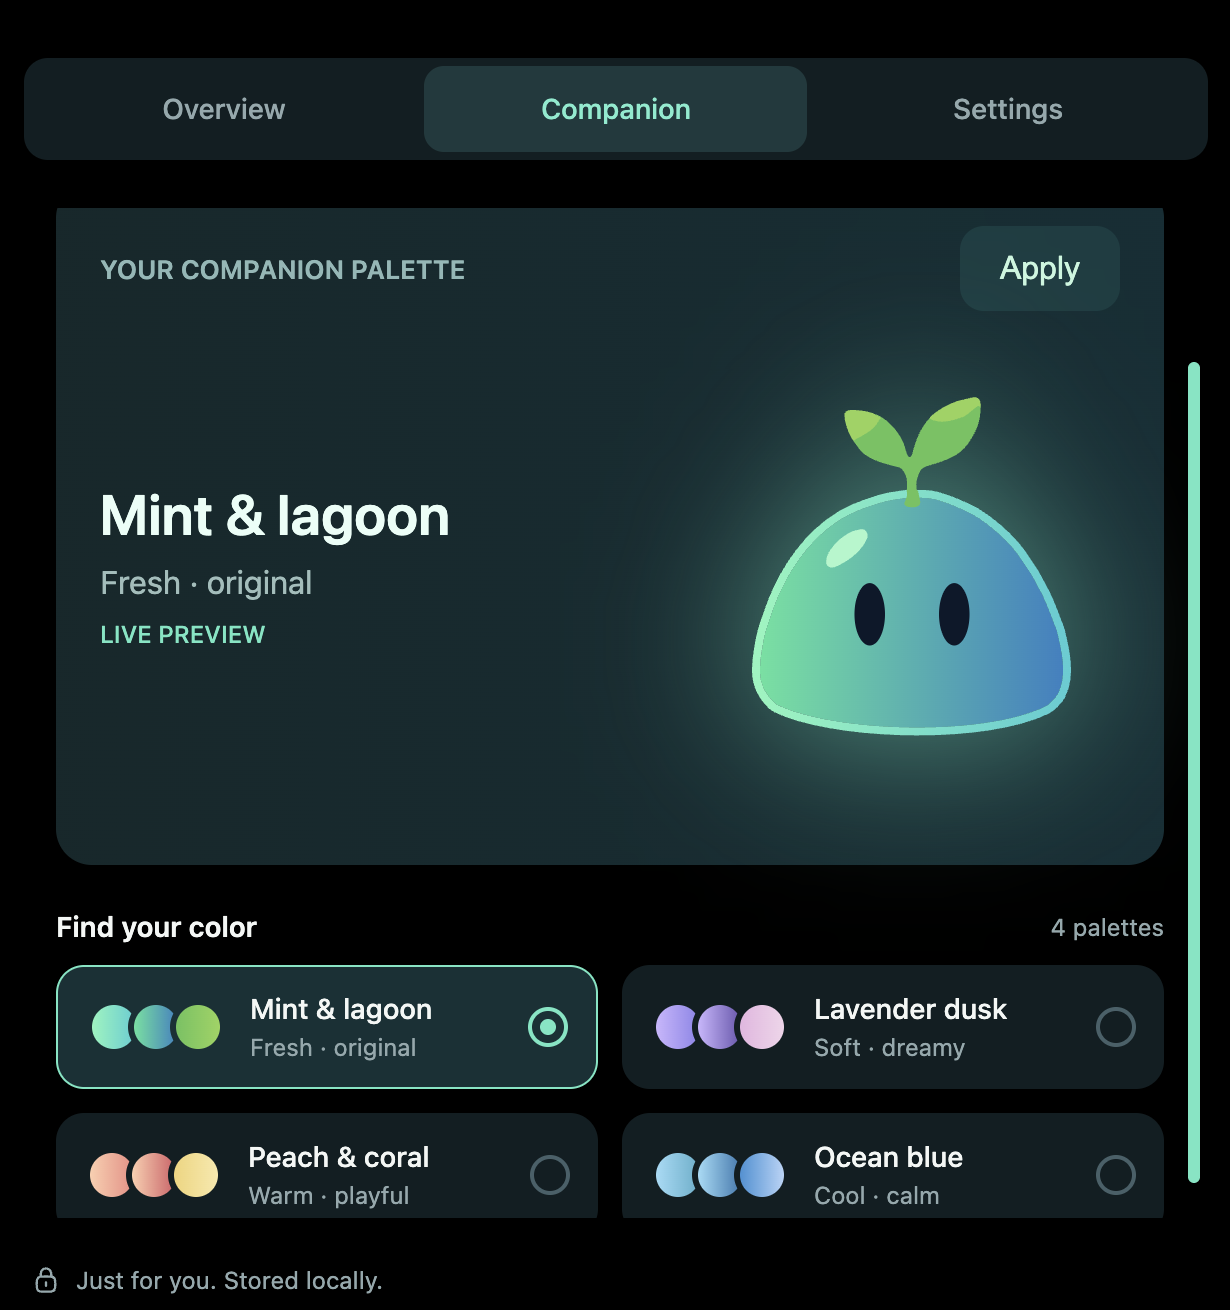
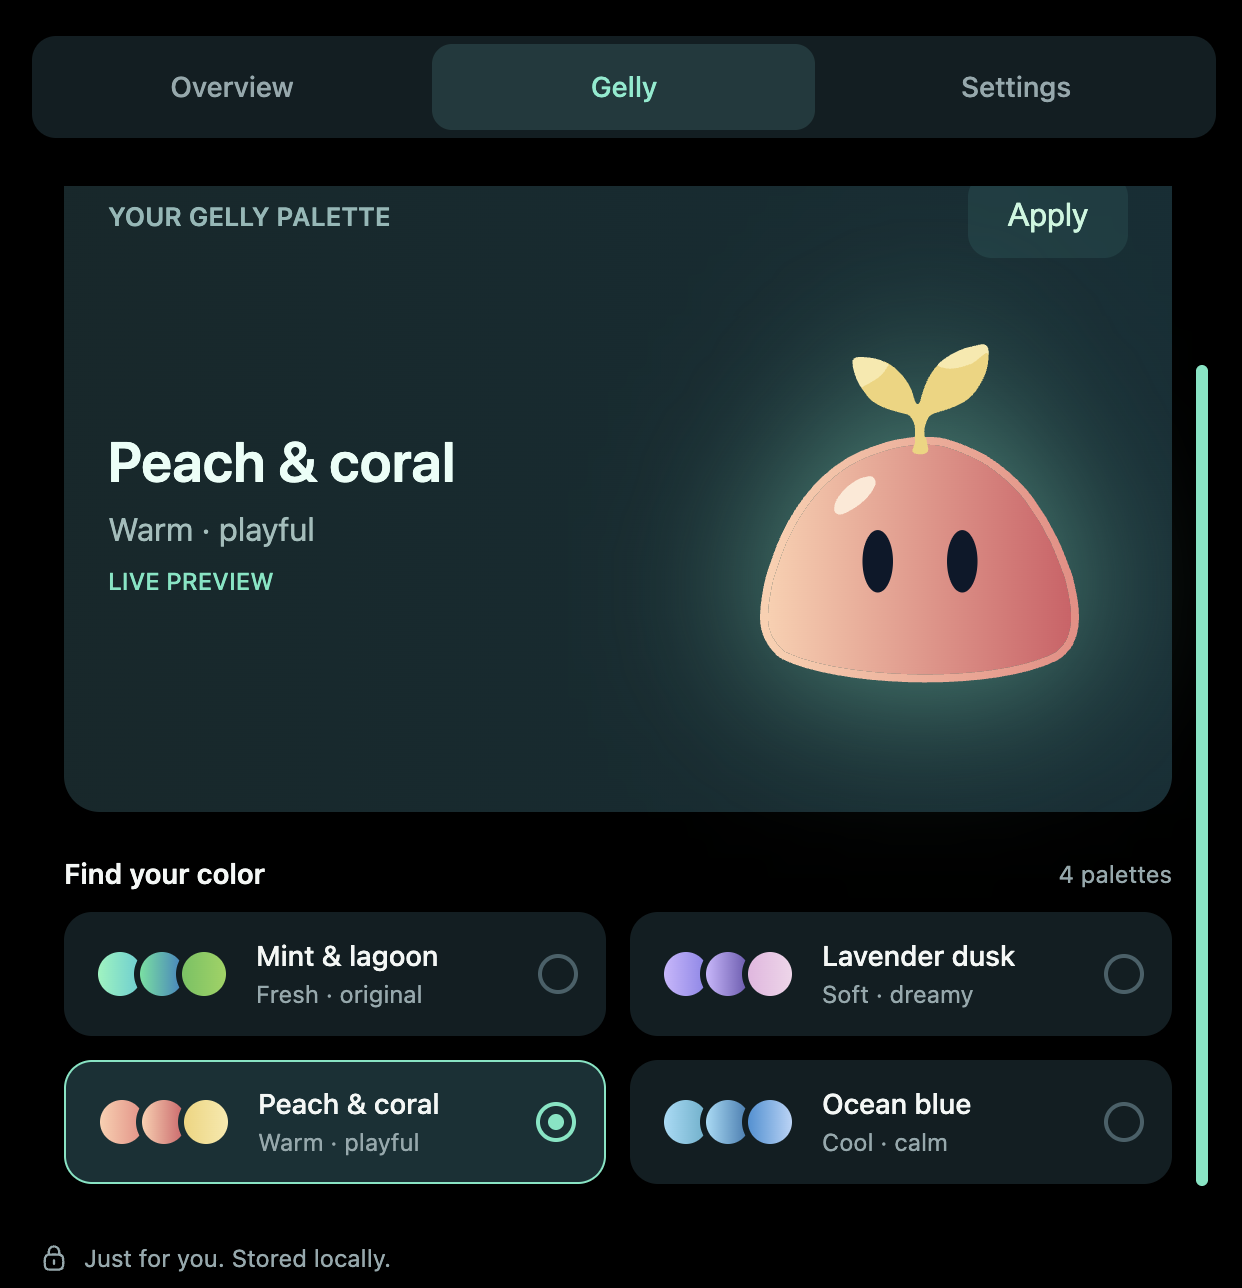
fix: minor UI fixes && mac builder issue fix

Changed region(s): [[0.0, 0.0311, 0.9886, 0.9317], [0.587, 0.2484, 0.8959, 0.559], [0.0309, 0.9627, 0.3089, 0.9938]]

diff --git a/src/renderer/src/pages/notch/_views/companionSettings/index.tsx b/src/renderer/src/pages/notch/_views/companionSettings/index.tsx
@@ -90,13 +90,13 @@ const CompanionSettings = () => {
          <div className="text_container">
             <span className="label">A little more you</span>
             <span className="sub_label">
-               Choose your companion’s colors. Make this space yours
+               Choose your Gelly’s colors. Make this space yours
             </span>
          </div>
 
          <div className="current_settings">
             <div className="top">
-               <span className="label">Your companion palette</span>
+               <span className="label">Your Gelly palette</span>
                <button className="apply_btn" onClick={handleSave}>
                   <span>Apply</span>
                </button>

diff --git a/src/renderer/src/pages/notch/_views/settings/index.tsx b/src/renderer/src/pages/notch/_views/settings/index.tsx
@@ -23,7 +23,7 @@ const Settings = () => {
          <div className="top">
             <span className="label">Settings</span>
             <span className="sub_label">
-               A few preferences to make notch feel like home.
+               A few preferences to make app feel like yours
             </span>
          </div>
 
@@ -34,7 +34,7 @@ const Settings = () => {
                <div className="text_container">
                   <span className="label">Launch at startup</span>
                   <span className="desc">
-                     Open notch automatically when you sign in.
+                     Open Gelly automatically when you sign in.
                   </span>
                </div>
 

diff --git a/src/main/tray.ts b/src/main/tray.ts
@@ -20,8 +20,8 @@ export function createTray(): Tray {
    tray.setToolTip("Gelly");
    tray.setContextMenu(
       Menu.buildFromTemplate([
-         { label: "Show Companion", click: showWindow },
-         { label: "Hide Companion", click: hideWindow },
+         { label: "Show Gelly", click: showWindow },
+         { label: "Hide Gelly", click: hideWindow },
          { type: "separator" },
          { label: "Quit App", click: () => app.quit() }
       ])

diff --git a/src/renderer/src/pages/notch/index.tsx b/src/renderer/src/pages/notch/index.tsx
@@ -39,7 +39,7 @@ const ExpandedView = ({ notchHeight }: { notchHeight: number }) => {
          <FloatingTab
             tabs={[
                { label: "Overview", value: "overview" },
-               { label: "Companion", value: "companion" },
+               { label: "Gelly", value: "companion" },
                { label: "Settings", value: "settings" }
             ]}
             onChange={setView}

diff --git a/README.md b/README.md
@@ -24,8 +24,8 @@ A small desktop companion that lives on your screen. Gelly is a squishy green bl
 
 <table>
   <tr style="border: none">
-    <td width="50%" style="border: none"><img src="docs/gelly-colors.png" alt="Gelly in different colors" width="100%"></td>
     <td width="50%" style="border: none"><img src="docs/overview.png" alt="Gelly's notch overview panel" width="100%"></td>
+    <td width="50%" style="border: none"><img src="docs/gelly-colors.png" alt="Gelly in different colors" width="100%"></td>
   </tr>
 </table>
 
